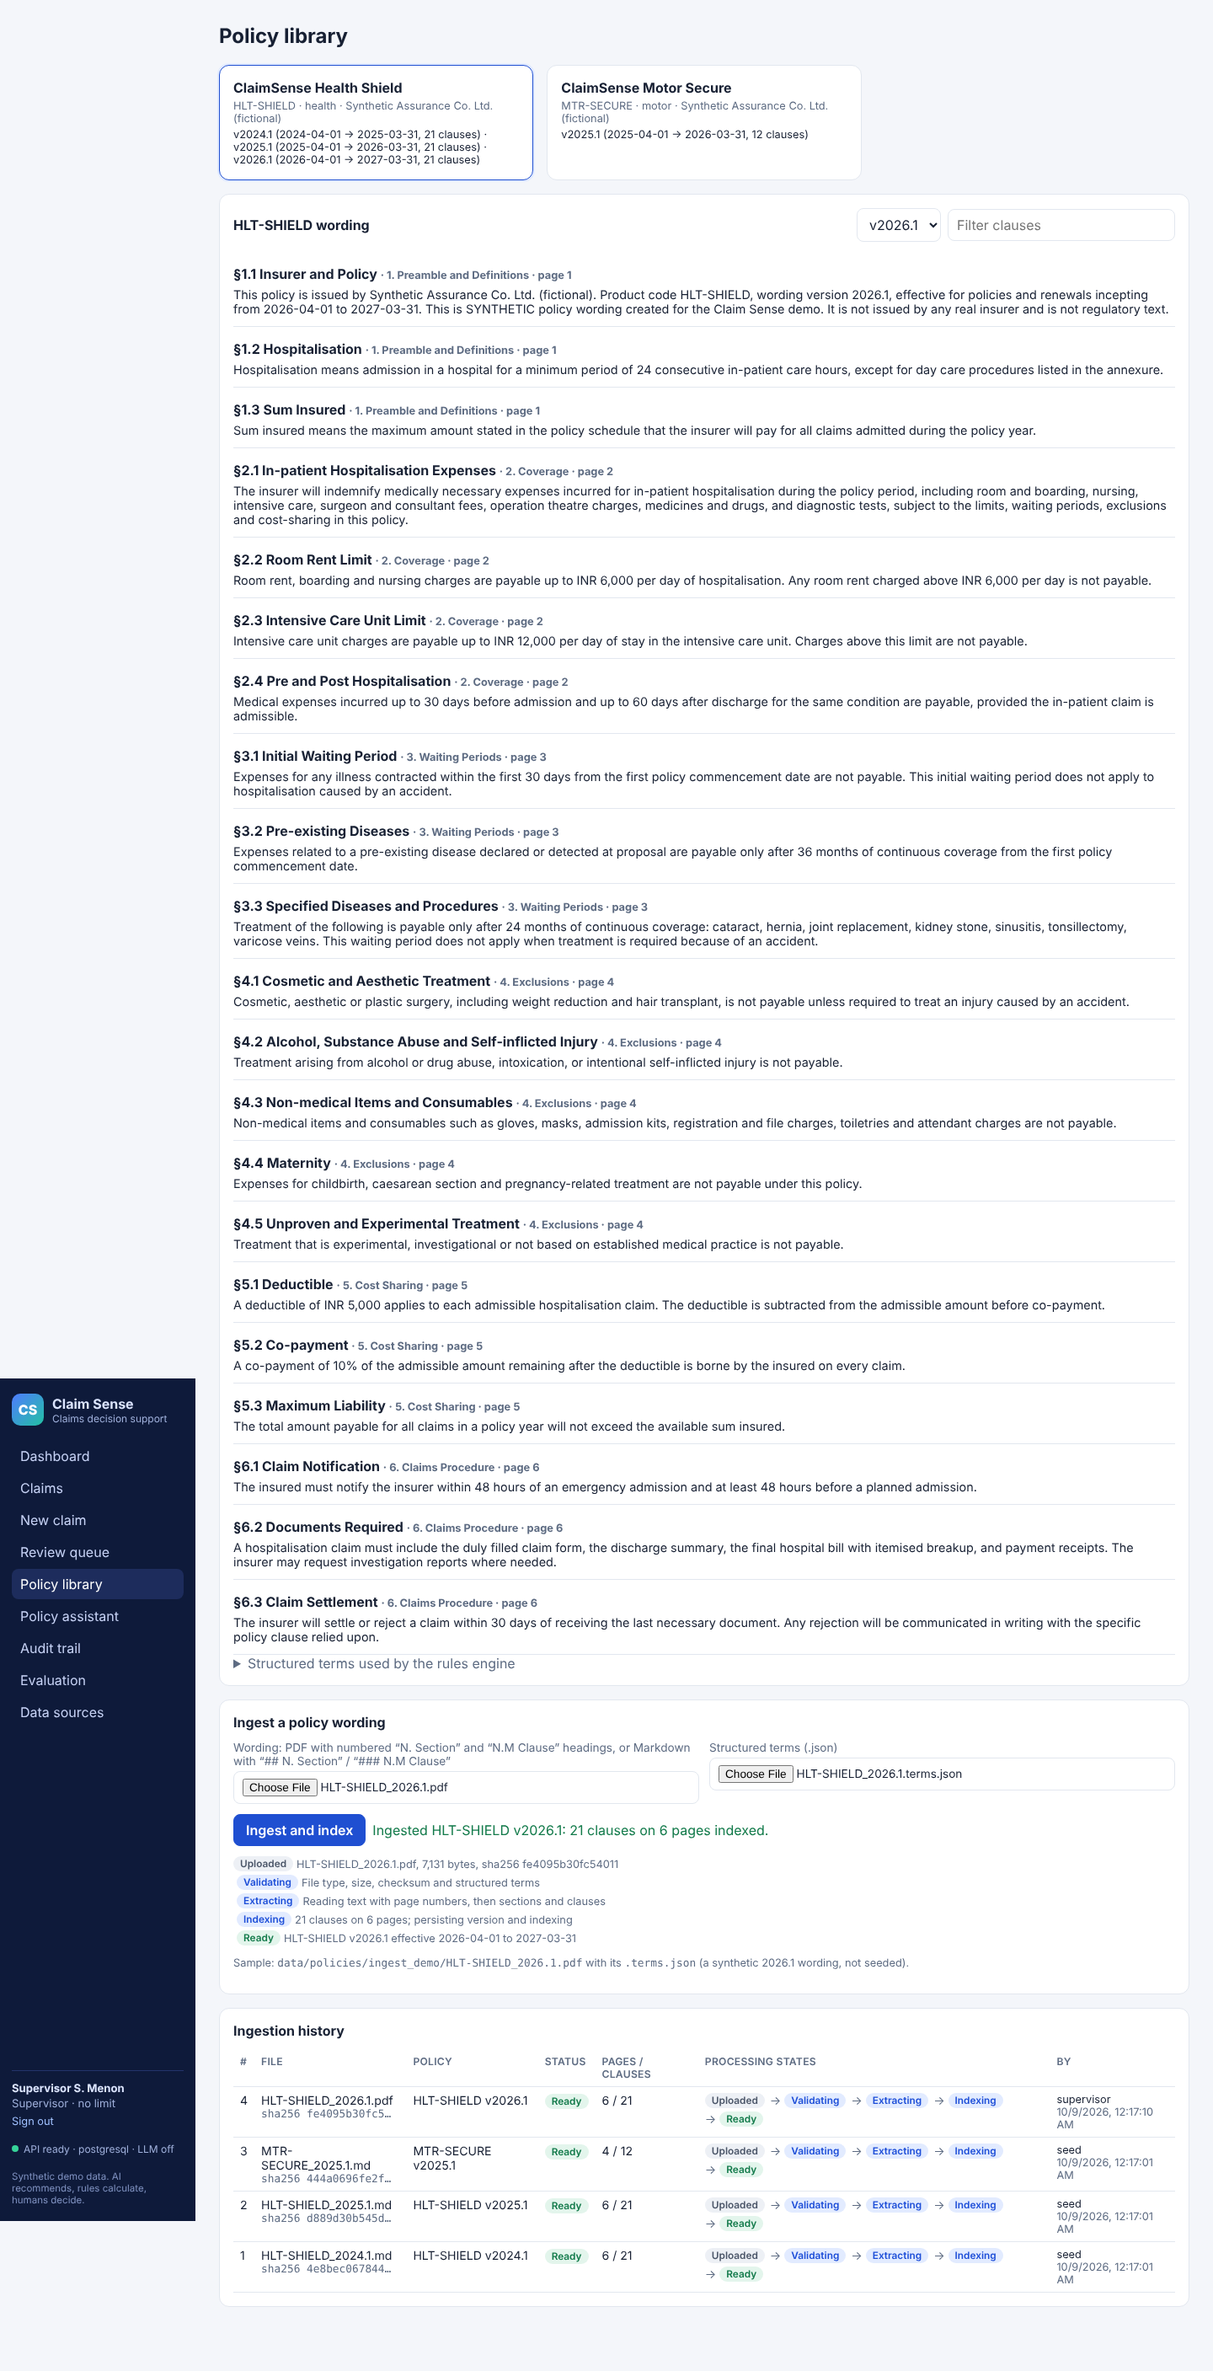
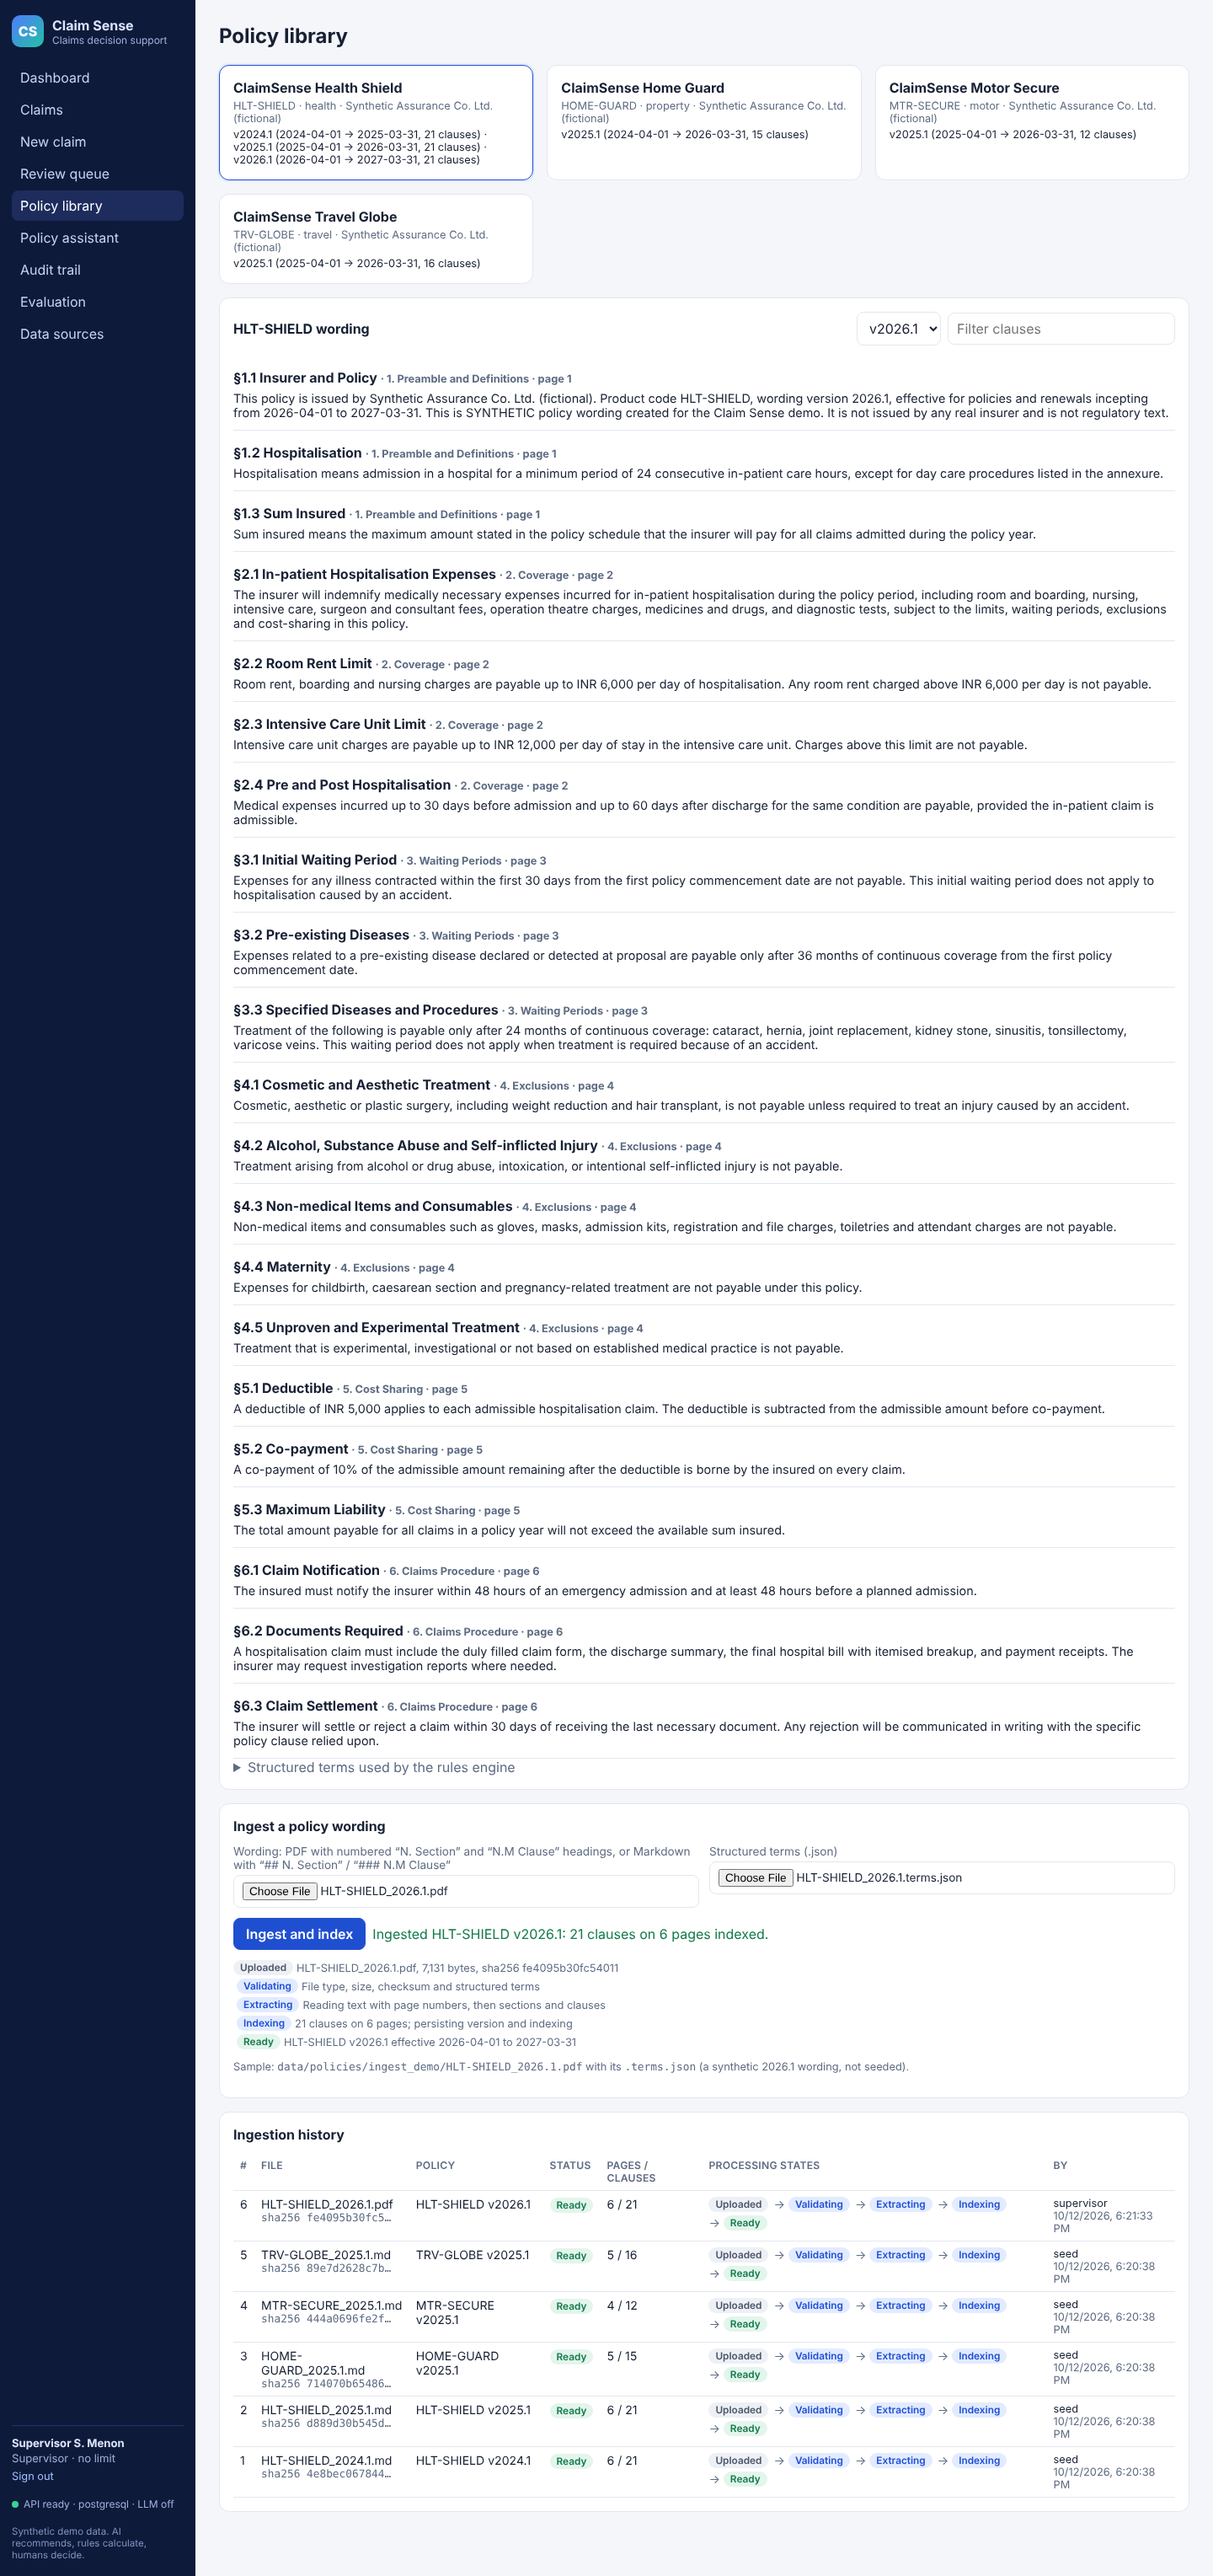
Regenerate README screenshots and add a screenshot script
e2e/screenshots.mjs rebuilds the screenshots the README uses from a
freshly seeded stack and fails on any browser error. The new shots show
all four lines, the interactive dashboard and the 612/612 evaluation.
README shows the claims list and filtered travel list; TESTING.md
documents the script; status notes that Render auto-deploy is off.

Claude-Session: https://claude.ai/code/session_01Jt1abTRDHyLt58nbRLKUtK

diff --git a/docs/IMPLEMENTATION_STATUS.md b/docs/IMPLEMENTATION_STATUS.md
@@ -10,7 +10,7 @@ The repository held one file, `PROJECT 1.MD` (the original project prompt). Ther
 
 | # | Golden-path step | Implementation | Validation |
 |---|---|---|---|
-| 1 | Dashboard | `frontend/src/pages/Dashboard.tsx`, `GET /api/v1/analytics` | Browser run, screenshot `docs/screenshots/01-dashboard.png` |
+| 1 | Dashboard | `frontend/src/pages/Dashboard.tsx`, `GET /api/v1/analytics` | Browser run, screenshot `docs/screenshots/23-dashboard-interactive.png` |
 | 2 | Claim creation and document upload | `POST /claims`, `POST /claims/{n}/documents`, `NewClaim.tsx` | Browser upload of `data/claims/demo_upload`, API test |
 | 3 | Extraction and structured facts | `agents/document.py` (PDF via pypdf, text), facts with file/line/confidence; `POST /claims/{n}/facts` records a reviewer correction with a reason (blueprint section 'New Claim'), the next analysis uses it (`intake.consolidate`: latest correction, then the first document value), the extracted value is kept and shown, `FACT_CORRECTED` audited; bill totals and line items are not correctable | `test_extraction.py` incl. PDF; `test_fact_correction.py`; browser correction and re-run, 0 console errors |
 | 4 | Policy and version matching | `agents/policy.py`, effective-dated `policy_versions` | `test_version_matching_uses_wording_in_force` |
@@ -39,6 +39,10 @@ The repository held one file, `PROJECT 1.MD` (the original project prompt). Ther
 | – | Sign-in throttle and injection guard (blueprint Prompt 16) | `auth.LoginThrottle` (429 + `Retry-After`), `safety.py` scan in the Intake Agent, `EMBEDDED_INSTRUCTIONS` risk signal; assistant refusal gate | `test_security_guards.py`: 5 failures then 429; injected discharge summary is flagged HIGH, routed to investigation, payable unchanged at ₹64,080 |
 | – | Override and escalation rates (blueprint Prompt 14) | `analytics.dashboard`: override rate, amount overrides, escalation rate, reviewer actions; dashboard KPIs | `test_dashboard_reports_override_and_escalation_rates` |
 | – | Security | Upload allow-list, size limit and filename sanitising; security headers and CSP; non-root container; dependency audits; see `docs/SECURITY.md` | Header and path tests; pip-audit and npm audit clean |
+
+## Validation results (2026-10-12, screenshots)
+
+- `e2e/screenshots.mjs` regenerates the README screenshots from a freshly seeded stack (PostgreSQL, built frontend served by the backend): browser-created health claim, the rejected waiting-period claim with its repudiation letter, high-risk and motor claims, assistant, review queue, evaluation (612 / 612), PDF ingestion, evidence, provenance, fact correction, property and travel adjudication, the claims list on all four lines, the interactive dashboard (35 claims, ₹58,20,100 claimed, ₹28,91,250 AI payable) and the filtered travel list. No browser errors. Full-page shots are taken at full height so the sidebar spans the image.
 
 ## Validation results (2026-10-12, dashboard and caching)
 
@@ -119,4 +123,4 @@ Single sign-on and user management, OCR for scanned images, embedding retriever,
 
 ## Next action
 
-Render deploys `main` automatically. After merging a change, run the **Verify deployment** workflow with `https://claim-sense.onrender.com` (it signs in with the `DEMO_PASSWORD` repository secret). This build environment cannot reach `onrender.com`, so verification runs from GitHub Actions.
+Auto-deploy is off on the Render service: after merging a change, use *Manual Deploy → Deploy latest commit*, then run the **Verify deployment** workflow with `https://claim-sense.onrender.com` (it signs in with the `DEMO_PASSWORD` repository secret). This build environment cannot reach `onrender.com`, so verification runs from GitHub Actions.

diff --git a/README.md b/README.md
@@ -100,8 +100,11 @@ CLM-H-1001 waterfall, as the app shows it:
 | ![Policy PDF ingestion](docs/screenshots/15-policy-pdf-ingestion.png) | ![Claim evidence tab](docs/screenshots/16-claim-evidence.png) |
 | ![Data provenance](docs/screenshots/17-data-provenance.png) | ![Fact correction](docs/screenshots/18-fact-correction.png) |
 | ![Home claim with average clause](docs/screenshots/20-property-claim-adjudication.png) | ![Travel baggage limits](docs/screenshots/21-travel-claim-adjudication.png) |
+| ![Claims on all four lines](docs/screenshots/22-claims-all-lines.png) | ![Claims filtered from the dashboard](docs/screenshots/24-claims-filtered-travel.png) |
 
 On a phone the navigation collapses into a menu: [screenshot](docs/screenshots/19-mobile-dashboard.png).
+
+The screenshots come from a freshly seeded stack; `node e2e/screenshots.mjs` regenerates them (see [docs/TESTING.md](docs/TESTING.md)).
 
 ## Architecture
 

diff --git a/docs/TESTING.md b/docs/TESTING.md
@@ -56,7 +56,11 @@ Tests use an isolated temporary SQLite database seeded from `data/`. The LLM is 
   - PDF policy ingestion;
   - take, release and reassign review tasks.
 
-  The screenshots are in `docs/screenshots/`.
+  The screenshots are in `docs/screenshots/`. `e2e/screenshots.mjs` regenerates the ones the README uses from a freshly seeded stack (it rejects CLM-H-1002, corrects a fact on CLM-H-1001 and ingests the demo PDF on the way, so run it against a fresh database) and exits non-zero on any browser error:
+
+  ```bash
+  cd e2e && PW_CHROMIUM=/path/to/chrome node screenshots.mjs http://localhost:8080
+  ```
 
 ## Browser tests (`e2e/`)
 
